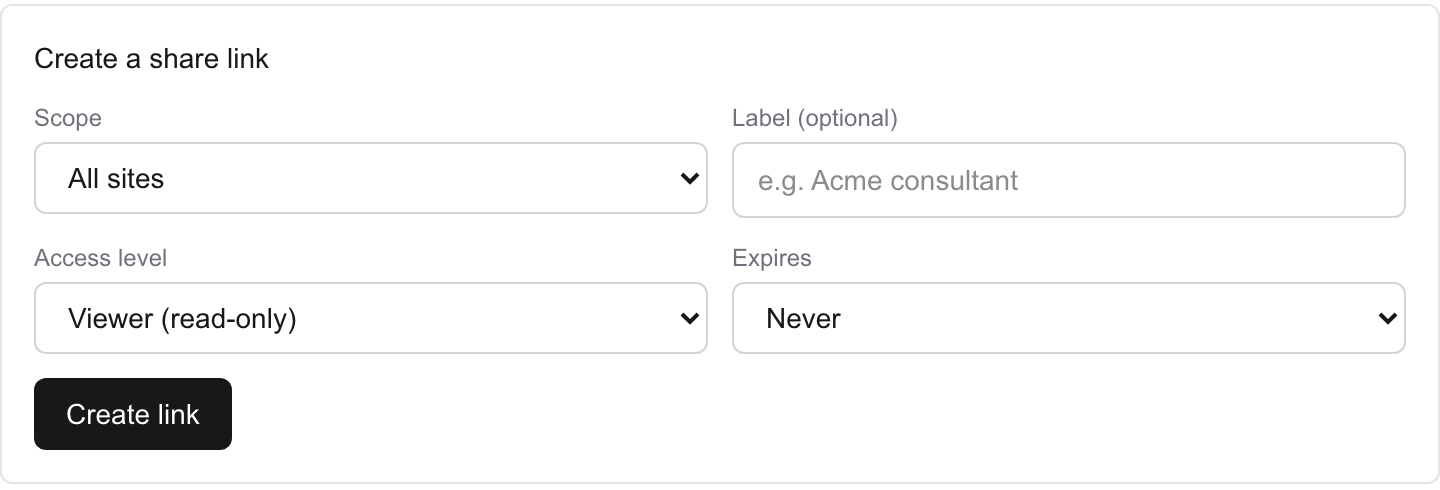
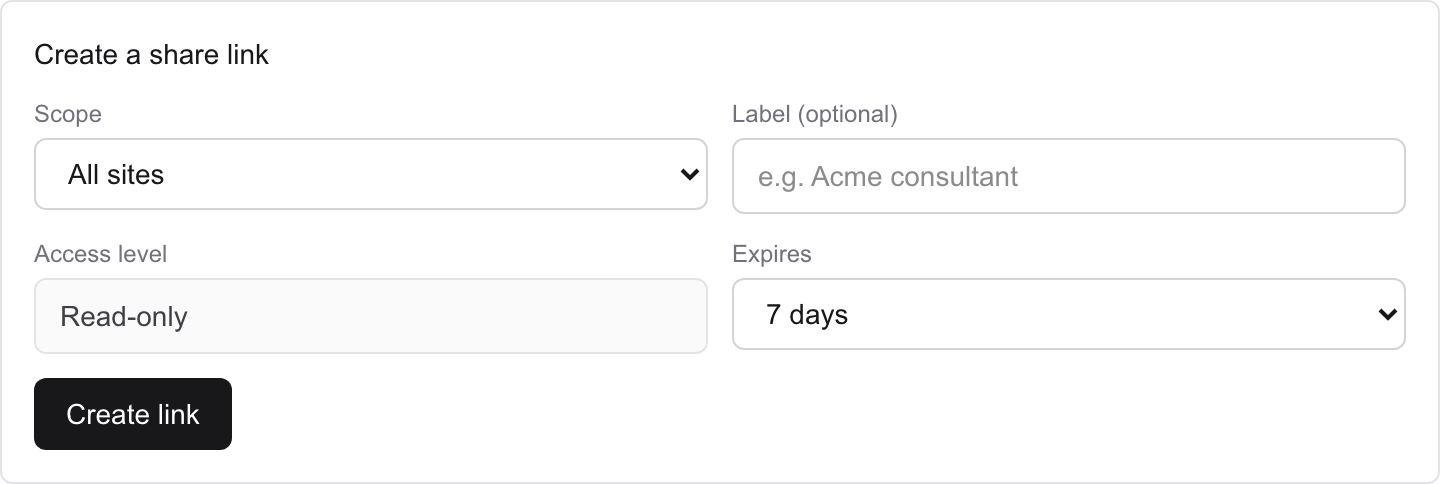
Marketing matches the share-link rules: read-only, expiring within 30 days, revocable — Tour, Security, Features and role-page copy updated; Clients screenshot recaptured as a workspace admin sees the form (Read-only, 7 days) instead of the owner's testing options

diff --git a/src/data/audiences.ts b/src/data/audiences.ts
@@ -26,7 +26,7 @@ export const AUDIENCES: Audience[] = [
     pains: ["Six client accounts, forty dashboard tabs, and a support queue that expects answers in minutes", "A WAF change on a live client site at five o’clock, with no way back", "The Friday report, assembled by hand, for every client"],
     features: [
       { b: "Zone groups and bulk cards", p: "Group zones by client. A purge, a WAF rule or a rate limit goes to the whole group on one approval card, applied and audited zone by zone.", href: "/#tour-clients" },
-      { b: "Share links and reports", p: "A link per client — viewer or admin, scoped, revocable — and a seven-day digest with CSV for every table.", href: "/#tour-clients" },
+      { b: "Share links and reports", p: "A read-only link per client — scoped, expiring within 30 days, revocable — and a seven-day digest with CSV for every table.", href: "/#tour-clients" },
       { b: "Priced by zones, on your keys", p: "Studio, Agency, Fleet — every tier includes everything. Your Cloudflare token and model key; usage billed to you at cost, never marked up.", href: "/pricing" },
     ],
     cases: ["down", "purge"], shot: "fleet-still", alt: "The Fleet view: every client site on one globe, with request arcs, the site list and a 24-hour timeline",
@@ -125,7 +125,7 @@ export const AUDIENCES: Audience[] = [
     features: [
       { b: "Plain answers with evidence", p: "Edge or origin, cached or not, one region or everywhere — with the chart. Proposals go to someone who can approve them.", href: "/#tour-ask" },
       { b: "Viewer role", p: "See every zone, every answer, every incident; change nothing. Safe to hand to a whole team.", href: "/security" },
-      { b: "Share links", p: "A live, scoped, revocable link to the client’s own sites, so the answer can be shown rather than described.", href: "/#tour-clients" },
+      { b: "Share links", p: "A live, read-only, expiring link to the client’s own sites, so the answer can be shown rather than described.", href: "/#tour-clients" },
     ],
     cases: ["down", "region"], shot: "tour-ask", alt: "A chat answer with its chart",
   },
